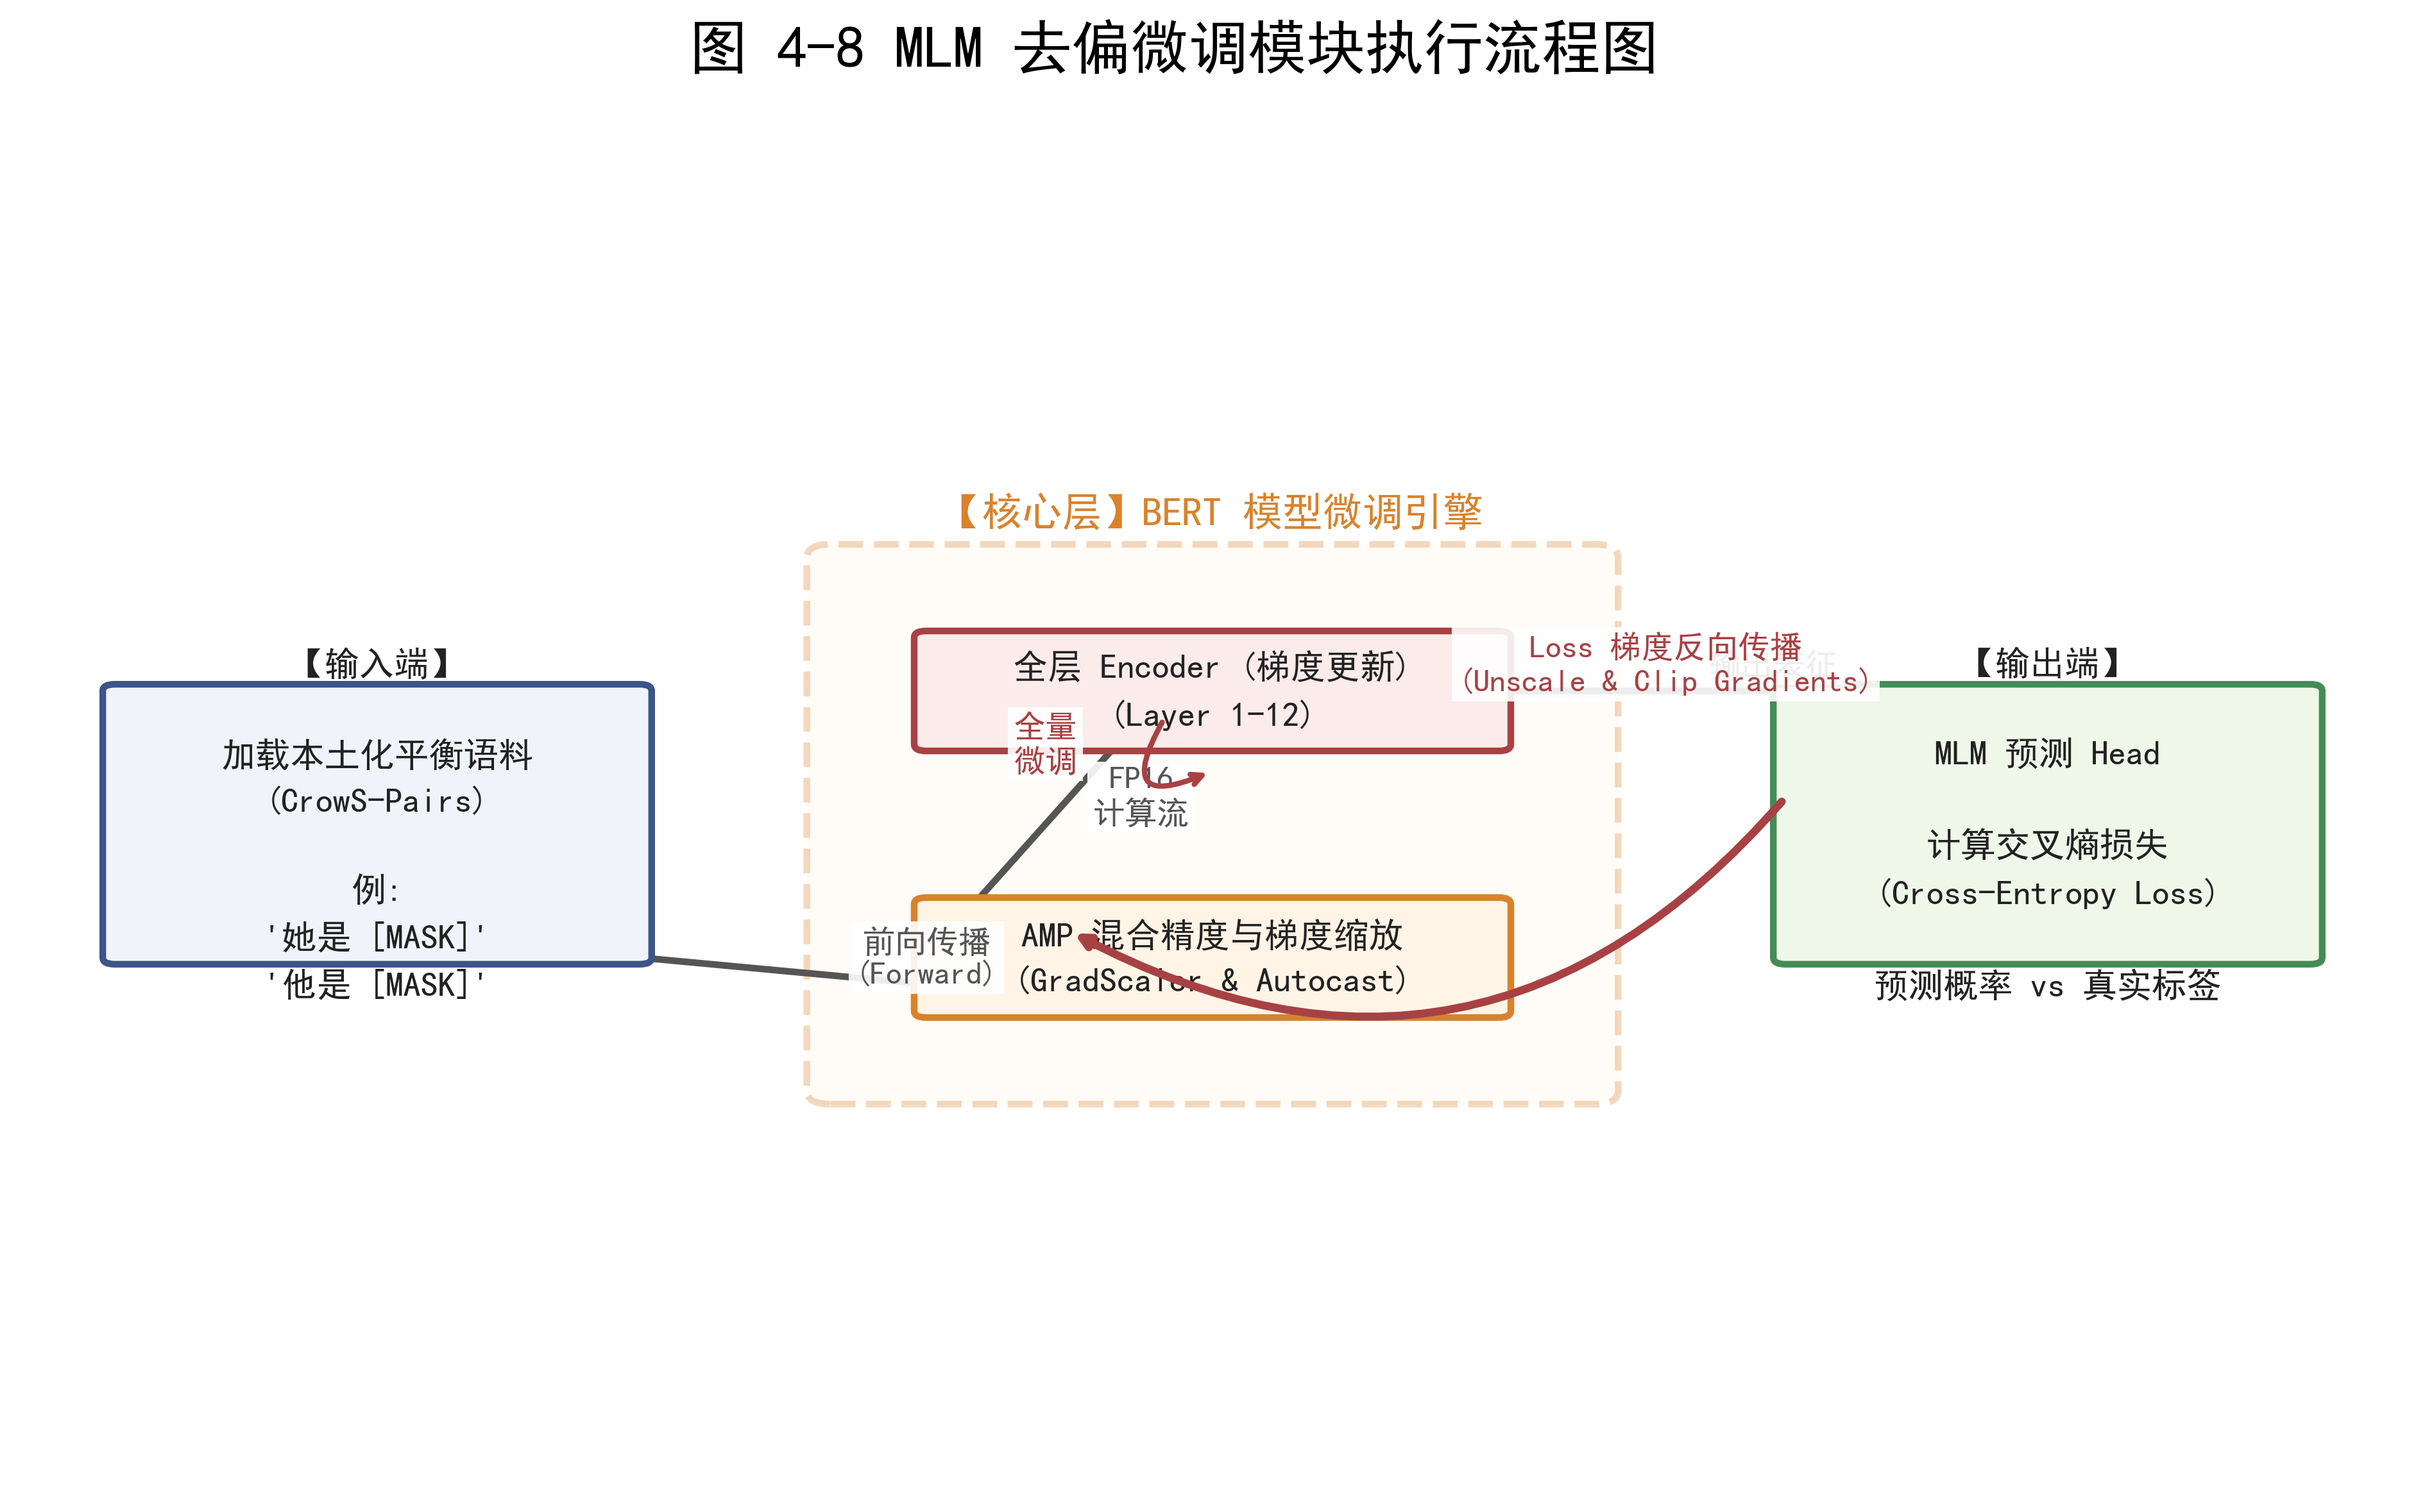
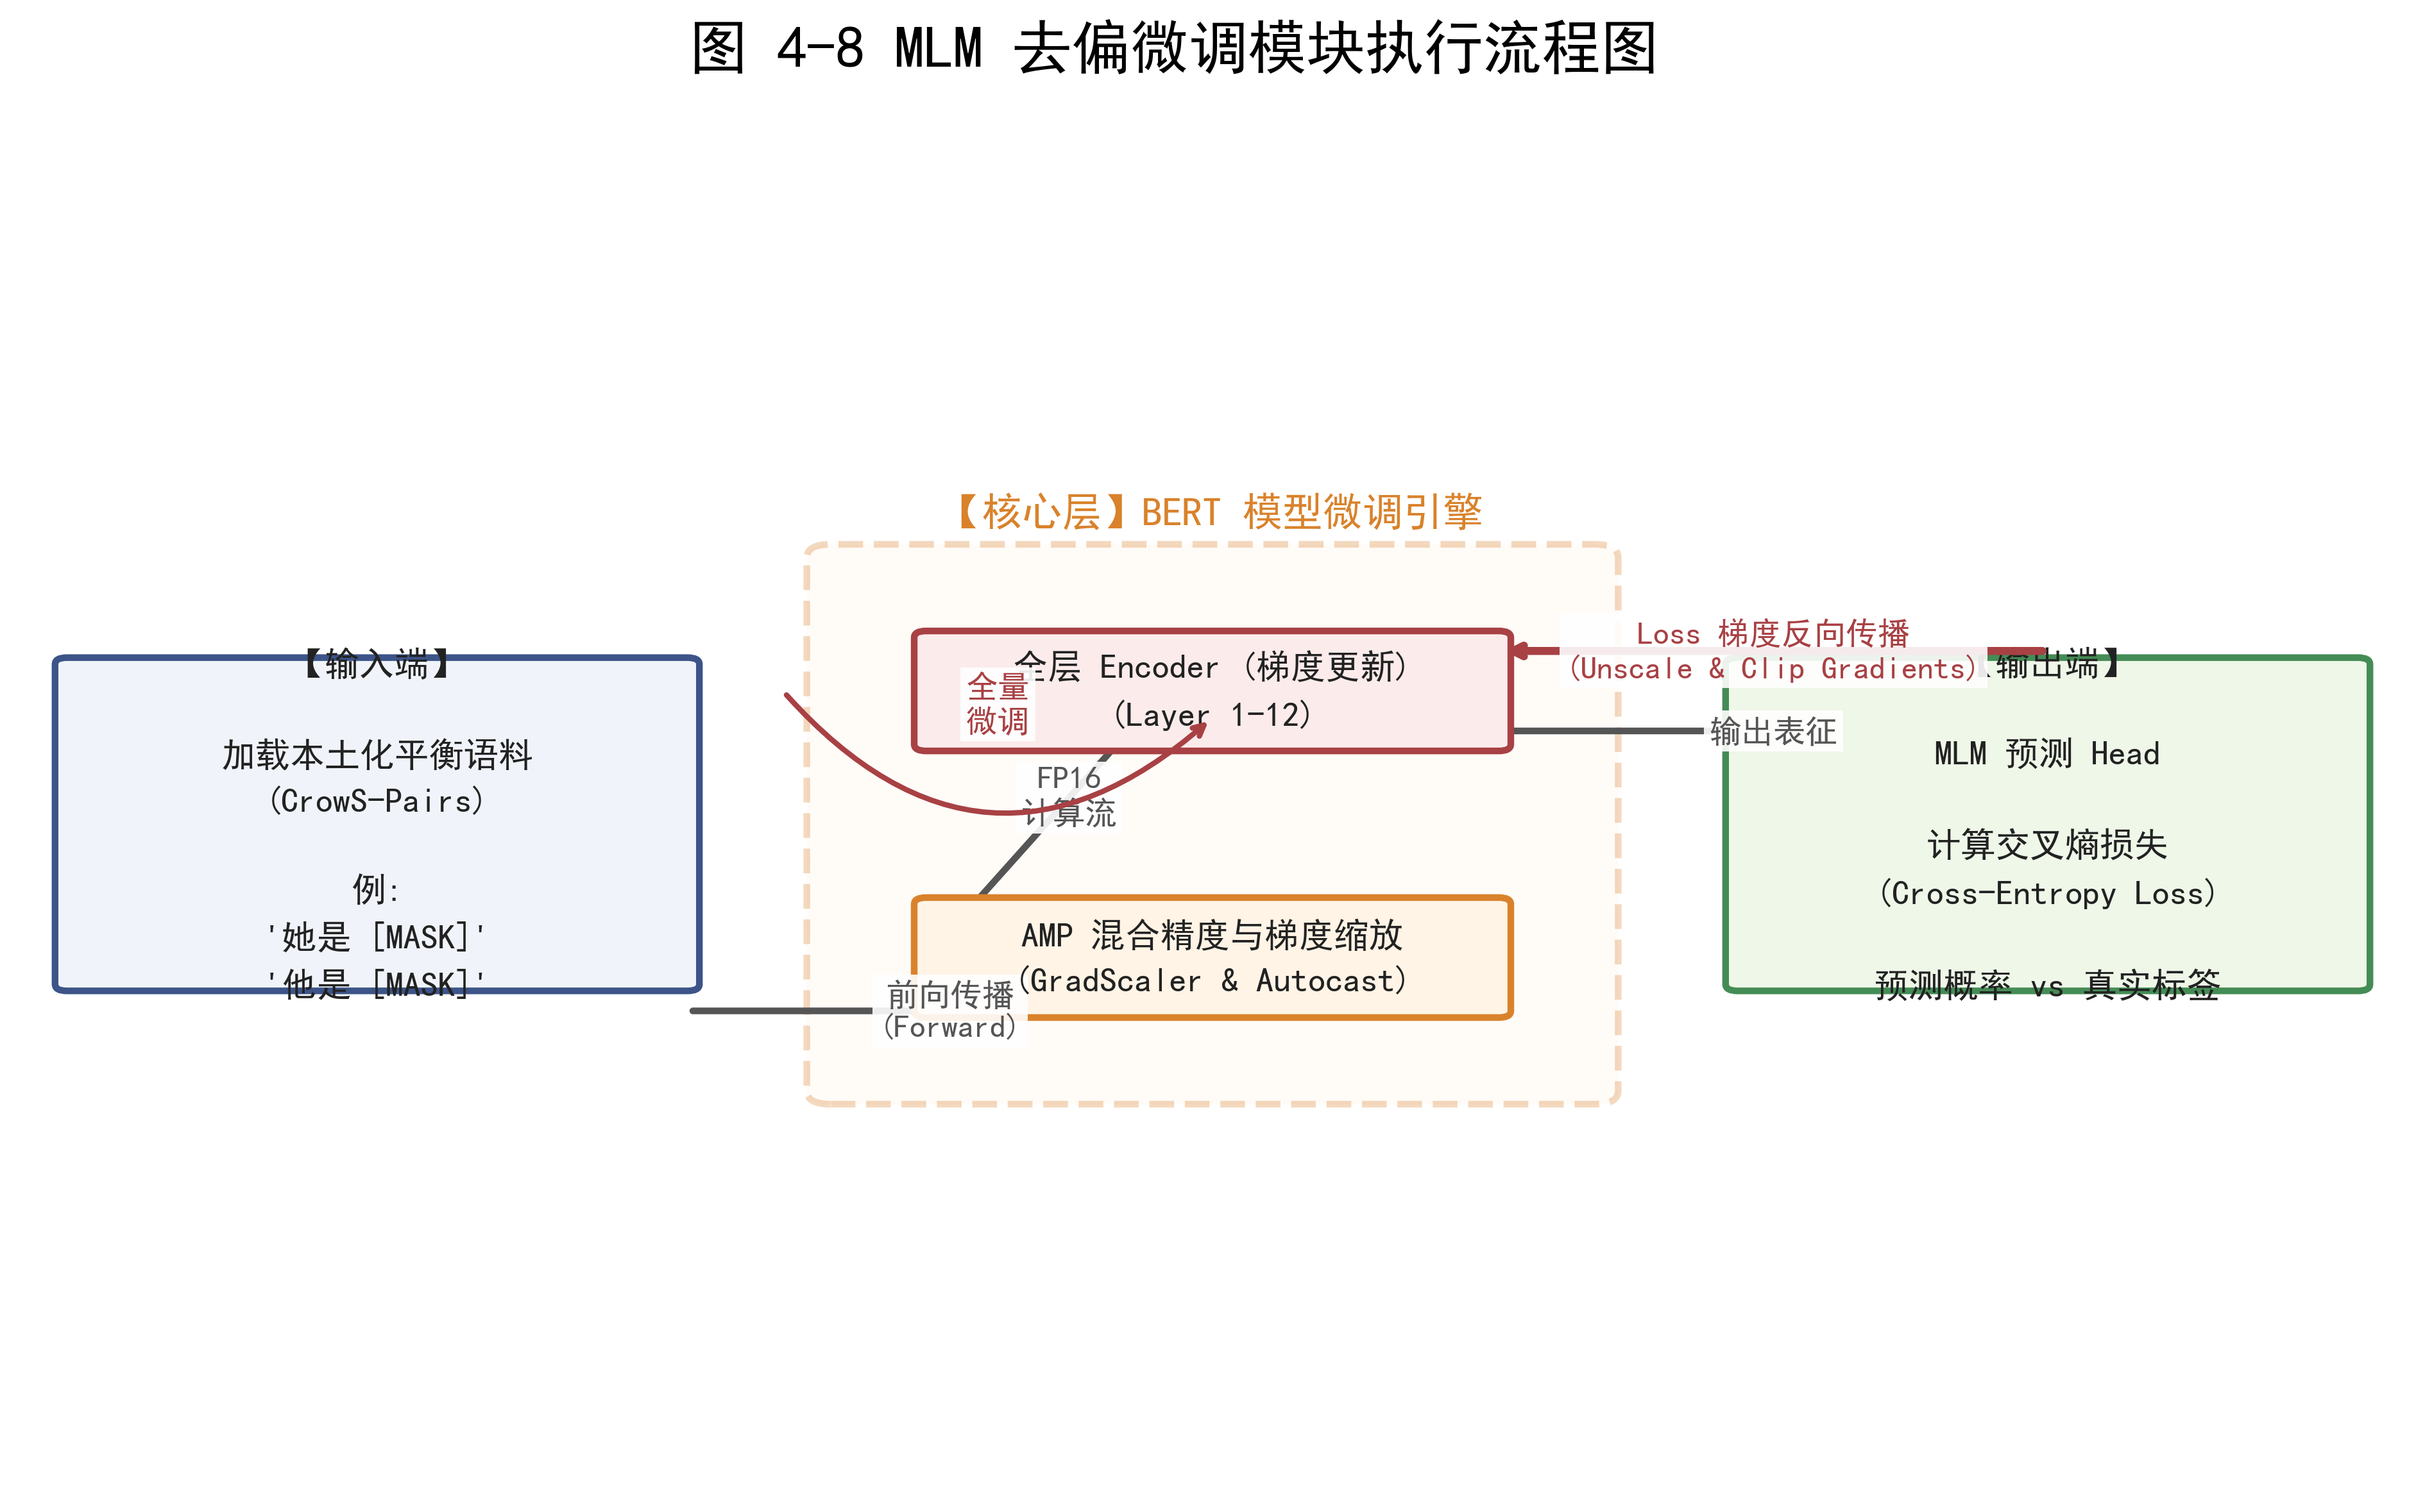
Update MLM workflow diagram layout per user request

diff --git a/generate_mlm_workflow.py b/generate_mlm_workflow.py
@@ -45,7 +45,7 @@ W, H = 22, 14
 # ==========================================
 # 绘制输入层
 # ==========================================
-in_top, in_right, in_bot, in_left = draw_box(IN_X, IN_Y, W, 20, "【输入端】\n\n加载本土化平衡语料\n(CrowS-Pairs)\n\n例:\n'她是 [MASK]'\n'他是 [MASK]'", "#F0F4FA", "#3C5488")
+in_top, in_right, in_bot, in_left = draw_box(IN_X, IN_Y, 26, 24, "【输入端】\n\n加载本土化平衡语料\n(CrowS-Pairs)\n\n例:\n'她是 [MASK]'\n'他是 [MASK]'", "#F0F4FA", "#3C5488")
 
 # ==========================================
 # 绘制核心层 (BERT Encoder)
@@ -67,28 +67,28 @@ b2_top, b2_right, b2_bot, b2_left = draw_box(BERT_X, BERT_Y + 10, 24, 8, "全层
 # ==========================================
 # 绘制输出层
 # ==========================================
-out_top, out_right, out_bot, out_left = draw_box(OUT_X, OUT_Y, W, 20, "【输出端】\n\nMLM 预测 Head\n\n计算交叉熵损失\n(Cross-Entropy Loss)\n\n预测概率 vs 真实标签", "#EEF7E8", "#448C55")
+out_top, out_right, out_bot, out_left = draw_box(OUT_X, OUT_Y, 26, 24, "【输出端】\n\nMLM 预测 Head\n\n计算交叉熵损失\n(Cross-Entropy Loss)\n\n预测概率 vs 真实标签", "#EEF7E8", "#448C55")
 
 # ==========================================
 # 绘制前向传播连接线 (Forward Pass)
 # ==========================================
 # 输入 -> AMP 层 (直线)
-draw_arrow((in_right[0], BERT_Y - 10), b1_left, text="前向传播\n(Forward)", text_offset=(0, 2))
+draw_arrow((in_right[0], b1_left[1]), b1_left, text="前向传播\n(Forward)", text_offset=(0, 0))
 
 # AMP 层 -> BERT 编码器 (直线，垂直向上)
-draw_arrow(b1_top, b2_bot, text="FP16\n计算流", text_offset=(3, 0))
+draw_arrow(b1_top, b2_bot, text="FP16\n计算流", text_offset=(0, 0))
 
 # BERT 编码器 -> 输出端 (直线)
-draw_arrow(b2_right, (out_left[0], BERT_Y + 10), text="输出表征", text_offset=(0, 2))
+draw_arrow((b2_right[0], b2_right[1] - 3), (out_left[0], b2_right[1] - 3), text="输出表征", text_offset=(0, 0))
 
 # ==========================================
 # 绘制反向传播回环 (Backward Pass)
 # ==========================================
-# 输出端 -> AMP层 (计算梯度，反向大回环，指向 AMP 层进行 Unscale)
-draw_arrow((out_top[0], out_top[1] + 2), (b1_top[0] + 6, b1_top[1] + 2), text="Loss 梯度反向传播\n(Unscale & Clip Gradients)", color="#A84144", lw=3, rad=-0.4, text_offset=(10, 15), zorder_arrow=5, zorder_text=6)
+# 输出端 -> BERT 编码器层 (计算梯度，直线反向)
+draw_arrow((out_left[0], b2_right[1] + 3), (b2_right[0], b2_right[1] + 3), text="Loss 梯度反向传播\n(Unscale & Clip Gradients)", color="#A84144", lw=3, rad=0.0, text_offset=(0, 0), zorder_arrow=5, zorder_text=6)
 
-# BERT 内部梯度更新循环标识 (指向红色全层Encoder自身)
-draw_arrow((b2_left[0] - 2, b2_left[1] + 2), (b2_left[0], b2_left[1] - 2), text="全量\n微调", color="#A84144", lw=2, rad=1.5, text_offset=(-6, 0), zorder_arrow=5, zorder_text=6)
+# BERT 内部梯度更新循环标识 (从上边界连接到左边界)
+draw_arrow((b2_top[0] - 6, b2_top[1]), (b2_left[0], b2_left[1] + 2), text="全量\n微调", color="#A84144", lw=2, rad=0.5, text_offset=(0, 0), zorder_arrow=5, zorder_text=6)
 
 os.makedirs('results', exist_ok=True)
 plt.savefig('results/MLM_FineTuning_Workflow.pdf', dpi=300, bbox_inches='tight')
